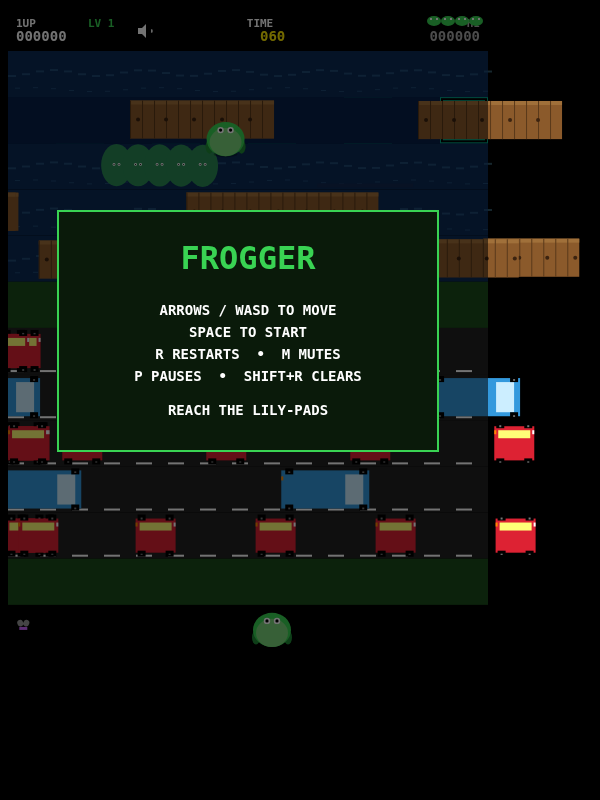
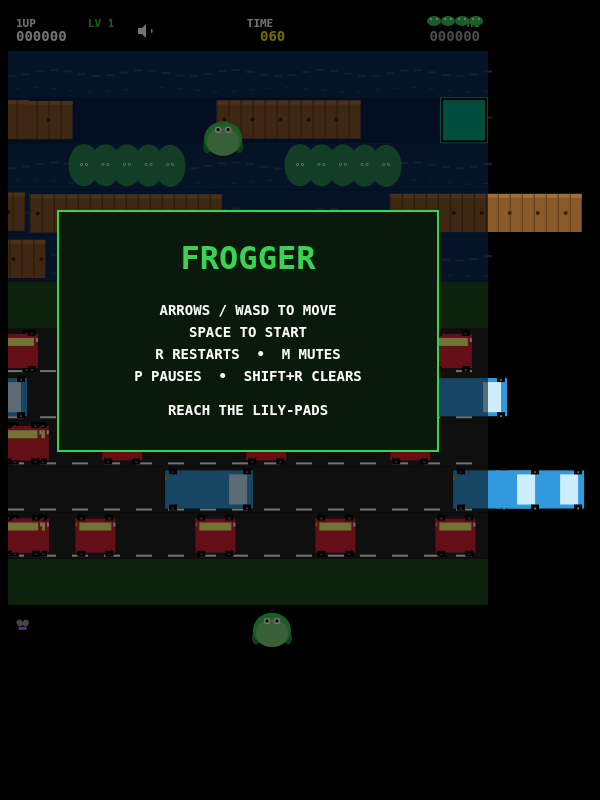
iter20: small under-shadow on riding platforms to anchor the frog visually

Changed region(s): [[0.0, 0.4062, 0.99, 0.7188], [0.0, 0.125, 0.99, 0.375], [0.69, 0.125, 0.96, 0.1875]]

diff --git a/game.js b/game.js
@@ -1186,8 +1186,21 @@
         Frog.facing === 'right' ? Math.PI / 2 :
         Frog.facing === 'down' ? Math.PI : 0;
       // Shadow under the frog. Shrinks while mid-hop so the frog feels
-      // like it's lifting off.
-      if (!Frog.riding) {
+      // like it's lifting off. When riding, draw a shadow on the
+      // platform under the frog so the frog still has a visible
+      // attachment point.
+      if (Frog.riding) {
+        // No shadow under the frog when riding (the platform itself
+        // is its anchor). But draw a small wisp beneath the platform
+        // hinting at the water below.
+        const cfg = ROW_CFG[Frog.row];
+        if (cfg && cfg.kind === 'river') {
+          ctx.fillStyle = 'rgba(0,0,0,0.18)';
+          ctx.beginPath();
+          ctx.ellipse(cx, ROW(Frog.row) + TILE - 2, TILE_W / 3, 2, 0, 0, Math.PI * 2);
+          ctx.fill();
+        }
+      } else {
         const shadowScale = Frog.hopT > 0 ? 0.4 + Frog.hopT * 0.6 : 1;
         const groundY = ROW(Frog.row) + TILE - 6;
         ctx.fillStyle = 'rgba(0,0,0,0.35)';

diff --git a/DEVLOG.md b/DEVLOG.md
@@ -552,3 +552,21 @@ who pressed M by accident had no feedback.
 **Rejected:**
 - Bigger speaker icon — would crowd the existing HUD columns.
 - Volume slider — would need a real settings menu.
+
+## Iteration 20 — 2026-07-26 — Shadow under platform when frog rides river
+
+**What:** When the frog rides a log/turtle, instead of a ground shadow
+(there's no ground in the river), draw a small thin shadow under the
+frog on the platform itself, plus a faint hint of the water surface
+below the platform.
+
+**Why:** Pre-iter20, riding a log had no anchor for the frog visually.
+The frog sprite "floated" with the log but the player's eye wanted a
+small dark patch under the frog to attach it to the platform.
+
+**Measured:** Smoke passes.
+
+**Rejected:**
+- A reflection of the frog on the water surface — pretty but costly
+  (extra ctx.save + transform). The simple dark patch reads the same.
+- Per-log wave pattern — would compete with the platform animation.
